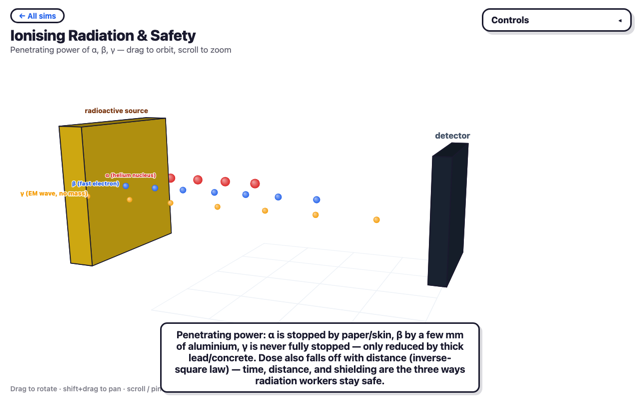
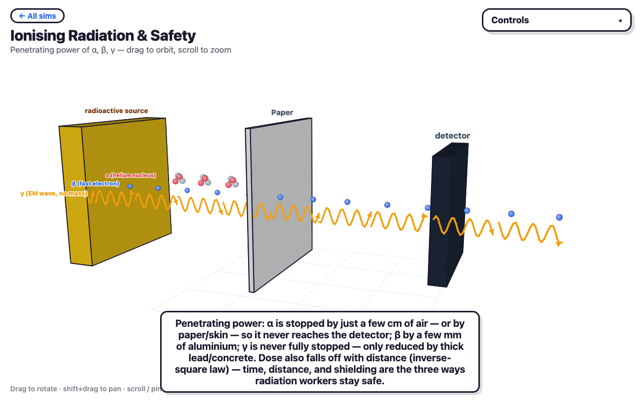
Fix proportions/physics in Rutherford model, radiation, fission-fusion sims
- Rutherford model: shrink nucleus, widen orbits so the atom reads as
  mostly empty space; Kepler-style orbit speeds (closer = faster); add
  a not-to-scale caveat.
- Ionising radiation: gamma now renders as a travelling wave packet
  instead of a ball; alpha is a proper 2p+2n cluster, visibly bigger
  than beta; alphas now stop within a short air range instead of
  reaching an unshielded detector 8m away; stopped particles fade out.
- Fission/fusion: nuclei are nucleon clusters sized by mass number
  (U-235, Ba-144, Kr-89, D, T, He-4) instead of flat balls; fixed a
  footer error claiming fusion releases more energy per reaction than
  fission (it's the reverse — fusion wins per kg of fuel, not per
  reaction); fusion neutron/He-4 recoil now momentum-balanced; fixed a
  draw-order bug where fused-away D/T could still render.

Changed region(s): [[0.125, 0.27, 0.875, 0.87]]

diff --git a/nuclear-physics/fission-fusion.html b/nuclear-physics/fission-fusion.html
@@ -13,8 +13,8 @@
 <script>
 'use strict';
 const INK = '#1a1a2e';
-const U_COL = '#a855f7', NEUTRON_COL = '#94a3b8', ENERGY_COL = '#f59e0b';
-const D_COL = '#2563eb', T_COL = '#16a34a', HE_COL = '#e63946';
+const PROTON_COL = '#e63946', NEUTRON_COL = '#94a3b8', ENERGY_COL = '#f59e0b';
+const U_COL = '#a855f7', D_COL = '#2563eb', T_COL = '#16a34a', HE_COL = '#e63946';
 
 const S = {
   mode: 'fission',
@@ -51,6 +51,71 @@ ui.hint('Drag to rotate · shift+drag to pan · scroll / pinch to zoom');
 const { canvas, ctx, W, H } = SimCanvas();
 const eng = Engine3D(canvas, { dist: 13, yaw: 0.5, pitch: 0.3 });
 
+/* --- nucleon clusters ---------------------------------------------------
+   A nucleus is drawn as a raspberry-blob of proton (red) / neutron (grey)
+   spheres. Offsets are generated once per nucleus and reused every frame so
+   the blob is stable; counts are representative, not literal (U-235 would
+   be 235 spheres). */
+const SMALL_ARRANGEMENTS = {
+  2: [[-0.6, 0, 0], [0.6, 0, 0]],
+  3: [[0, 0.66, 0], [-0.58, -0.36, 0.12], [0.58, -0.36, -0.12]],
+  4: [[0.55, 0.55, 0.55], [0.55, -0.55, -0.55], [-0.55, 0.55, -0.55], [-0.55, -0.55, 0.55]]
+};
+
+function makeCluster(n, R, nProtons) {
+  const rn = n <= 4 ? 0.24 : Math.max(0.17, R * 1.15 / Math.cbrt(n));
+  const offs = [];
+  if (n <= 4) {
+    for (const o of SMALL_ARRANGEMENTS[n]) offs.push({ p: v3.mul(o, rn * 1.05), proton: false });
+    for (let i = 0; i < nProtons; i++) offs[i].proton = true;
+    return { offs, rn, R: rn * 1.9 };
+  }
+  let tries = 0;
+  while (offs.length < n && tries < 6000) {
+    tries++;
+    const u = Math.random() * 2 - 1, a = Math.random() * Math.PI * 2;
+    const rad = (R - rn * 0.8) * Math.cbrt(Math.random());
+    const s = Math.sqrt(1 - u * u);
+    const p = [rad * s * Math.cos(a), rad * u, rad * s * Math.sin(a)];
+    if (offs.some(o => Math.hypot(p[0] - o.p[0], p[1] - o.p[1], p[2] - o.p[2]) < rn * 1.05)) continue;
+    offs.push({ p, proton: false });
+  }
+  while (offs.length < n) {
+    const u = Math.random() * 2 - 1, a = Math.random() * Math.PI * 2;
+    const rad = (R - rn * 0.8) * Math.cbrt(Math.random());
+    const s = Math.sqrt(1 - u * u);
+    offs.push({ p: [rad * s * Math.cos(a), rad * u, rad * s * Math.sin(a)], proton: false });
+  }
+  const order = offs.map((_, i) => i).sort(() => Math.random() - 0.5);
+  for (let i = 0; i < nProtons && i < order.length; i++) offs[order[i]].proton = true;
+  return { offs, rn, R };
+}
+
+function rgba(hex, a) {
+  return 'rgba(' + parseInt(hex.slice(1, 3), 16) + ',' + parseInt(hex.slice(3, 5), 16) + ',' +
+    parseInt(hex.slice(5, 7), 16) + ',' + Math.max(0, a).toFixed(2) + ')';
+}
+
+/* One composite: every nucleon shares the cluster's depth (depthOverride),
+   drawn back-to-front by each nucleon's own depth so the blob never flickers. */
+function drawCluster(c, cluster, alpha) {
+  const cd = eng.project(c).depth - cluster.R;
+  const parts = [];
+  for (const o of cluster.offs) {
+    const wp = [c[0] + o.p[0], c[1] + o.p[1], c[2] + o.p[2]];
+    parts.push({ wp, proton: o.proton, d: eng.project(wp).depth });
+  }
+  parts.sort((a, b) => b.d - a.d);
+  for (const part of parts) {
+    const col = part.proton ? PROTON_COL : NEUTRON_COL;
+    if (alpha >= 1) {
+      eng.sphere(part.wp, cluster.rn, col, { stroke: 'rgba(26,26,46,0.35)', strokeWidth: 1.2, depthOverride: cd });
+    } else {
+      eng.sphere(part.wp, cluster.rn, rgba(col, alpha), { highlight: rgba(lighten(col, 0.55), alpha), depthOverride: cd });
+    }
+  }
+}
+
 let uraniumNuclei = [], freeNeutrons = [], fragments = [], flashes = [];
 let reactionCount = 0, energyBarLevel = 0;
 
@@ -59,11 +124,11 @@ function resetScene() {
   reactionCount = 0; energyBarLevel = 0;
   if (S.mode === 'fission') {
     const positions = [[0, 0, 0], [2.6, 0.3, -1.8], [-2.4, -0.2, -2.2], [2.2, 0.1, 2.4], [-2.6, 0.2, 2.0], [0.2, -0.3, -3.4], [3.4, 0, 0.4]];
-    for (const p of positions) uraniumNuclei.push({ x: p[0], y: p[1], z: p[2], alive: true });
+    for (const p of positions) uraniumNuclei.push({ x: p[0], y: p[1], z: p[2], alive: true, cluster: makeCluster(34, 0.8, 13) });
   } else {
     fragments = [
-      { type: 'D', x: -2.2, y: 0, z: 0, vx: 0.55, vy: 0, vz: 0 },
-      { type: 'T', x: 2.2, y: 0, z: 0, vx: -0.55, vy: 0, vz: 0 }
+      { type: 'D', label: 'D', labelCol: D_COL, cluster: makeCluster(2, 0, 1), x: -2.2, y: 0, z: 0, vx: 0.55, vy: 0, vz: 0 },
+      { type: 'T', label: 'T', labelCol: T_COL, cluster: makeCluster(3, 0, 1), x: 2.2, y: 0, z: 0, vx: -0.55, vy: 0, vz: 0 }
     ];
   }
 }
@@ -82,17 +147,19 @@ function fireNeutron() {
 function splitNucleus(u) {
   u.alive = false;
   reactionCount++;
-  energyBarLevel = Math.min(1, energyBarLevel + 0.12);
+  energyBarLevel = Math.min(1, energyBarLevel + 0.25);
   flashes.push({ x: u.x, y: u.y, z: u.z, life: 0.4, maxLife: 0.4 });
-  // two fragment nuclei flying apart
+  // two daughter nuclei fly apart — the heavier Ba-144 recoils slower than Kr-89
   const a = Math.random() * Math.PI * 2;
-  fragments.push({ type: 'frag', x: u.x, y: u.y, z: u.z, vx: Math.cos(a) * 1.4, vy: 0.2, vz: Math.sin(a) * 1.4, life: 1.6, col: '#fb923c' });
-  fragments.push({ type: 'frag', x: u.x, y: u.y, z: u.z, vx: -Math.cos(a) * 1.4, vy: -0.15, vz: -Math.sin(a) * 1.4, life: 1.6, col: '#c084fc' });
+  fragments.push({ type: 'frag', label: 'Ba-144', labelCol: '#475569', cluster: makeCluster(20, 0.68, 8),
+    x: u.x, y: u.y, z: u.z, vx: Math.cos(a) * 1.0, vy: 0.15, vz: Math.sin(a) * 1.0 });
+  fragments.push({ type: 'frag', label: 'Kr-89', labelCol: '#475569', cluster: makeCluster(14, 0.58, 6),
+    x: u.x, y: u.y, z: u.z, vx: -Math.cos(a) * 1.6, vy: -0.15, vz: -Math.sin(a) * 1.6 });
   // 2-3 new free neutrons
   const nOut = 2 + Math.floor(Math.random() * 2);
   for (let i = 0; i < nOut; i++) {
     const na = Math.random() * Math.PI * 2, nz = (Math.random() - 0.5) * 2;
-    freeNeutrons.push({ x: u.x, y: u.y, z: u.z, vx: Math.cos(na) * 2.2, vy: nz * 0.6, vz: Math.sin(na) * 2.2, spawnT: simT });
+    freeNeutrons.push({ x: u.x, y: u.y, z: u.z, vx: Math.cos(na) * 2.2, vy: nz * 0.6, vz: Math.sin(na) * 2.2 });
   }
 }
 
@@ -121,7 +188,8 @@ function frame(tms) {
   if (S.mode === 'fission') {
     for (const u of uraniumNuclei) {
       if (!u.alive) continue;
-      eng.sphere([u.x, u.y, u.z], 0.55, U_COL, { stroke: INK, strokeWidth: 2, label: S.labels ? 'U' : '' });
+      drawCluster([u.x, u.y, u.z], u.cluster, 1);
+      if (S.labels) eng.label([u.x, u.y + 1.15, u.z], 'U-235', { color: U_COL, size: 14, lift: 2 });
     }
     for (let i = freeNeutrons.length - 1; i >= 0; i--) {
       const nn = freeNeutrons[i];
@@ -129,25 +197,28 @@ function frame(tms) {
       let hit = null;
       for (const u of uraniumNuclei) {
         if (!u.alive) continue;
-        if (Math.hypot(nn.x - u.x, nn.y - u.y, nn.z - u.z) < 0.65) { hit = u; break; }
+        if (Math.hypot(nn.x - u.x, nn.y - u.y, nn.z - u.z) < 0.9) { hit = u; break; }
       }
       if (hit && (S.chainReaction || nn.targetHint)) { splitNucleus(hit); freeNeutrons.splice(i, 1); continue; }
-      eng.sphere([nn.x, nn.y, nn.z], 0.13, NEUTRON_COL);
+      eng.sphere([nn.x, nn.y, nn.z], 0.22, NEUTRON_COL, { stroke: 'rgba(26,26,46,0.35)', strokeWidth: 1.2 });
       if (Math.abs(nn.x) > 8 || Math.abs(nn.y) > 6 || Math.abs(nn.z) > 6) freeNeutrons.splice(i, 1);
     }
     for (let i = fragments.length - 1; i >= 0; i--) {
       const f = fragments[i];
-      f.x += f.vx * dt; f.y += f.vy * dt; f.z += f.vz * dt; f.life -= dt;
-      eng.sphere([f.x, f.y, f.z], 0.4, f.col);
-      if (f.life <= 0) fragments.splice(i, 1);
+      f.x += f.vx * dt; f.y += f.vy * dt; f.z += f.vz * dt;
+      const rr = Math.hypot(f.x, f.y, f.z);
+      const alpha = Math.min(1, (7.2 - rr) / 1.6);
+      if (alpha <= 0) { fragments.splice(i, 1); continue; }
+      drawCluster([f.x, f.y, f.z], f.cluster, alpha);
+      if (S.labels && alpha > 0.5) eng.label([f.x, f.y + f.cluster.R + 0.4, f.z], f.label, { color: f.labelCol, size: 13, lift: 2 });
     }
     for (let i = flashes.length - 1; i >= 0; i--) {
       const fl = flashes[i]; fl.life -= dt;
       const a = Math.max(0, fl.life / fl.maxLife);
-      eng.sphere([fl.x, fl.y, fl.z], 0.6 + (1 - a) * 1.2, 'rgba(250,204,21,' + (a * 0.5).toFixed(2) + ')', { highlight: 'rgba(254,240,138,0.6)' });
+      eng.sphere([fl.x, fl.y, fl.z], 0.8 + (1 - a) * 1.2, 'rgba(250,204,21,' + (a * 0.5).toFixed(2) + ')', { highlight: 'rgba(254,240,138,0.6)' });
       if (fl.life <= 0) flashes.splice(i, 1);
     }
-    if (S.labels && uraniumNuclei.some(u => u.alive)) eng.label([0, -3.1, 0], 'U-235 nuclei (a slice of the fuel)', { color: '#475569', size: 14, lift: 2 });
+    if (S.labels && uraniumNuclei.some(u => u.alive)) eng.label([0, -3.1, 0], 'U-235 nuclei (a slice of the fuel) — protons red, neutrons grey', { color: '#475569', size: 14, lift: 2 });
   } else {
     const d = fragments.find(f => f.type === 'D'), tt = fragments.find(f => f.type === 'T');
     if (d && tt) {
@@ -156,26 +227,24 @@ function frame(tms) {
       if (dist < 0.9 && Math.abs(d.vx) > 0.1) {
         // fuse!
         reactionCount++;
-        energyBarLevel = Math.min(1, energyBarLevel + 0.35);
+        energyBarLevel = Math.min(1, energyBarLevel + 0.08);
         flashes.push({ x: (d.x + tt.x) / 2, y: 0, z: 0, life: 0.5, maxLife: 0.5 });
         fragments = fragments.filter(f => f.type !== 'D' && f.type !== 'T');
-        fragments.push({ type: 'He', x: 0, y: 0, z: 0, vx: 0.3, vy: 0.1, vz: 0, life: 3, col: HE_COL });
-        freeNeutrons.push({ x: 0, y: -0.1, z: 0, vx: -2.5, vy: 0, vz: 0.4 });
-        setTimeout(resetScene, 1400);
+        // the fast neutron carries ~80% of the energy; He-4 recoils the other way
+        fragments.push({ type: 'He', label: 'He-4', labelCol: HE_COL, cluster: makeCluster(4, 0, 2), x: 0, y: 0, z: 0, vx: 0.9, vy: 0, vz: 0 });
+        freeNeutrons.push({ x: 0, y: -0.1, z: 0, vx: -3.5, vy: 0, vz: 0.4 });
+        setTimeout(resetScene, 1600);
       }
-      if (d) eng.sphere([d.x, d.y, d.z], 0.4, D_COL, { stroke: INK, strokeWidth: 1.5, label: S.labels ? 'D' : '' });
-      if (tt) eng.sphere([tt.x, tt.y, tt.z], 0.4, T_COL, { stroke: INK, strokeWidth: 1.5, label: S.labels ? 'T' : '' });
     }
     for (const f of fragments) {
-      if (f.type === 'He') {
-        f.x += f.vx * dt; f.y += f.vy * dt;
-        eng.sphere([f.x, f.y, f.z], 0.42, f.col, { stroke: INK, strokeWidth: 1.5, label: S.labels ? 'He' : '' });
-      }
+      if (f.type === 'He') { f.x += f.vx * dt; f.y += f.vy * dt; }
+      drawCluster([f.x, f.y, f.z], f.cluster, 1);
+      if (S.labels) eng.label([f.x, f.y + 0.85, f.z], f.label, { color: f.labelCol, size: 15, lift: 2 });
     }
     for (let i = freeNeutrons.length - 1; i >= 0; i--) {
       const nn = freeNeutrons[i];
       nn.x += nn.vx * dt; nn.z += nn.vz * dt;
-      eng.sphere([nn.x, nn.y, nn.z], 0.16, NEUTRON_COL);
+      eng.sphere([nn.x, nn.y, nn.z], 0.22, NEUTRON_COL, { stroke: 'rgba(26,26,46,0.35)', strokeWidth: 1.2 });
       if (Math.abs(nn.x) > 8) freeNeutrons.splice(i, 1);
     }
     for (let i = flashes.length - 1; i >= 0; i--) {
@@ -184,7 +253,7 @@ function frame(tms) {
       eng.sphere([fl.x, fl.y, fl.z], 0.5 + (1 - a) * 1.6, 'rgba(250,204,21,' + (a * 0.55).toFixed(2) + ')', { highlight: 'rgba(254,240,138,0.6)' });
       if (fl.life <= 0) flashes.splice(i, 1);
     }
-    if (S.labels) eng.label([0, -1.4, 0], 'push the D and T together — real fusion needs extreme heat & pressure to beat their repulsion', { color: '#475569', size: 14, lift: 2 });
+    if (S.labels) eng.label([0, -1.6, 0], 'push the D and T together — real fusion needs extreme heat & pressure to beat their repulsion', { color: '#475569', size: 14, lift: 2 });
   }
 
   energyBarLevel = Math.max(0, energyBarLevel - dt * 0.06);
@@ -196,11 +265,11 @@ function frame(tms) {
   roNeutrons.set(String(freeNeutrons.length));
 
   if (S.mode === 'fission') {
-    foot.set('<b>Fission:</b> a neutron splits a heavy U-235 nucleus into two smaller nuclei + 2&ndash;3 free neutrons + energy. ' +
+    foot.set('<b>Fission:</b> a neutron splits a heavy U-235 nucleus into two smaller nuclei (e.g. Ba-144 + Kr-89) + 2&ndash;3 free neutrons + energy (&asymp;200 MeV). ' +
       (S.chainReaction ? 'Those neutrons can split <b>more</b> nuclei &mdash; a chain reaction.' : 'Chain reaction off: extra neutrons just fly past.'));
   } else {
-    foot.set('<b>Fusion:</b> deuterium (D) + tritium (T) &rarr; helium + a neutron + <b>far more energy per reaction than fission</b> &mdash; ' +
-      'this is what powers the Sun, and what fusion reactors are trying to harness on Earth.');
+    foot.set('<b>Fusion:</b> deuterium (D) + tritium (T) &rarr; helium-4 + a fast neutron (which carries ~80% of the energy). ' +
+      'One fission releases more energy than one fusion (&asymp;200 MeV vs &asymp;18 MeV), but <b>per kilogram of fuel, fusion releases several times more</b> &mdash; it powers the Sun, and fusion reactors are trying to harness it on Earth.');
   }
 
   requestAnimationFrame(frame);

diff --git a/nuclear-physics/radiation-safety.html b/nuclear-physics/radiation-safety.html
@@ -70,6 +70,41 @@ let simT = 0, lastT = 0;
 
 function detectorX() { return SHIELD_X + 1.2 + S.distance; }
 
+/* alpha drawn as its actual structure: a helium nucleus, 2 protons + 2 neutrons */
+const PROTON_COL = '#e63946';
+const ALPHA_NUCLEONS = [
+  { off: [0.075, 0.075, 0.075], col: PROTON_COL },
+  { off: [0.075, -0.075, -0.075], col: '#94a3b8' },
+  { off: [-0.075, 0.075, -0.075], col: '#94a3b8' },
+  { off: [-0.075, -0.075, 0.075], col: PROTON_COL }
+];
+
+function drawAlpha(x, z, fade) {
+  const c = [x, 0, z];
+  const cd = eng.project(c).depth;
+  const parts = ALPHA_NUCLEONS.map(n => {
+    const pos = [c[0] + n.off[0] * fade, c[1] + n.off[1] * fade, c[2] + n.off[2] * fade];
+    return { pos, col: n.col, d: eng.project(pos).depth };
+  });
+  parts.sort((a, b) => b.d - a.d); // far → near, whole cluster sorts as one unit via depthOverride
+  for (const n of parts) {
+    eng.sphere(n.pos, 0.09 * fade, n.col, { depthOverride: cd, stroke: 'rgba(26,26,46,0.35)', strokeWidth: 1 });
+  }
+}
+
+function drawGamma(x, z, fade) {
+  const L = 1.2, N = 26, cycles = 3.5;
+  const pts = [];
+  for (let i = 0; i <= N; i++) {
+    const u = i / N;
+    const px = x - L + u * L;
+    if (px < SOURCE_X) continue; // tail still inside the source box
+    pts.push([px, 0.18 * fade * Math.sin(u * Math.PI * 2 * cycles + x * 6), z]);
+  }
+  if (pts.length < 2) return;
+  eng.line(pts, { color: GAMMA_COL, width: 3 * Math.max(fade, 0.35), arrow: true });
+}
+
 function frame(tms) {
   const t = tms / 1000, dt = Math.min(t - lastT, 0.04); lastT = t; simT += dt;
 
@@ -79,7 +114,13 @@ function frame(tms) {
     if (!show) continue;
     spawnTimers[lane.key] -= dt;
     if (spawnTimers[lane.key] <= 0) {
-      particles.push({ key: lane.key, x: SOURCE_X, z: lane.z, speed: lane.key === 'gamma' ? 6 : (lane.key === 'beta' ? 4.5 : 2.6), stopped: false, stopX: null });
+      particles.push({
+        key: lane.key, x: SOURCE_X, z: lane.z,
+        speed: lane.key === 'gamma' ? 6 : (lane.key === 'beta' ? 4.5 : 2.6),
+        stopped: false, fade: 1, checkedShield: false,
+        // alpha only travels a few cm in air — it peters out just past the shield plane
+        airStop: lane.key === 'alpha' ? SHIELD_X + 1 + Math.random() * 0.5 : Infinity
+      });
       spawnTimers[lane.key] = lane.key === 'alpha' ? 0.35 : 0.2;
     }
   }
@@ -88,13 +129,17 @@ function frame(tms) {
     const p = particles[i];
     if (!p.stopped) {
       p.x += p.speed * dt;
-      if (p.x >= SHIELD_X && p.stopX === null) {
+      if (p.x >= SHIELD_X && !p.checkedShield) {
+        p.checkedShield = true;
         const passes = S.shield === 'none' ? true : Math.random() < pen[p.key];
-        if (!passes) { p.stopped = true; p.stopX = SHIELD_X + (Math.random() - 0.5) * 0.3; }
+        if (!passes) { p.stopped = true; p.x = SHIELD_X + (Math.random() - 0.5) * 0.2; }
       }
+      if (!p.stopped && p.x >= p.airStop) p.stopped = true;
+    } else {
+      p.fade -= dt; // stopped particles fade out quickly instead of piling up
+      if (p.fade <= 0) { particles.splice(i, 1); continue; }
     }
     if (!p.stopped && p.x > dX + 3) particles.splice(i, 1);
-    if (p.stopped && Math.random() < 0.002) particles.splice(i, 1); // slow cleanup of stopped dots
   }
   if (particles.length > 400) particles.splice(0, particles.length - 400);
 
@@ -128,23 +173,27 @@ function frame(tms) {
 
   for (const p of particles) {
     const lane = LANES.find(l => l.key === p.key);
-    const r = p.key === 'alpha' ? 0.14 : (p.key === 'beta' ? 0.09 : 0.07);
-    eng.sphere([p.x, 0, lane.z], r, lane.col, p.stopped ? { highlight: lane.col } : {});
+    const fade = p.stopped ? p.fade : 1;
+    if (p.key === 'alpha') drawAlpha(p.x, lane.z, fade);
+    else if (p.key === 'gamma') drawGamma(p.x, lane.z, fade);
+    else eng.sphere([p.x, 0, lane.z], 0.07 * fade, lane.col, { stroke: 'rgba(26,26,46,0.3)', strokeWidth: 1 });
   }
 
   eng.flush(ctx);
 
-  // relative dose at detector: inverse-square with distance, times whichever types get through
+  // relative dose at detector: inverse-square with distance, times whichever types get through.
+  // Alpha never contributes — its range in air is only a few cm, far short of the detector.
   let doseSum = 0;
-  for (const key of ['alpha', 'beta', 'gamma']) {
-    const show = { alpha: S.showAlpha, beta: S.showBeta, gamma: S.showGamma }[key];
+  for (const key of ['beta', 'gamma']) {
+    const show = { beta: S.showBeta, gamma: S.showGamma }[key];
     if (!show) continue;
     doseSum += pen[key] / (S.distance * S.distance);
   }
   roDose.set(doseSum.toFixed(2) + ' (arbitrary units)');
 
-  foot.set('<b>Penetrating power:</b> α is stopped by paper/skin, β by a few mm of aluminium, γ is never fully stopped &mdash; only reduced by thick lead/concrete. ' +
-    'Dose also falls off with distance (inverse-square law) &mdash; <b>time, distance, and shielding</b> are the three ways radiation workers stay safe.');
+  foot.set('<b>Penetrating power:</b> α is stopped by just a few cm of air &mdash; or by paper/skin &mdash; so it never reaches the detector; β by a few mm of aluminium; ' +
+    'γ is never fully stopped &mdash; only reduced by thick lead/concrete. Dose also falls off with distance (inverse-square law) &mdash; ' +
+    '<b>time, distance, and shielding</b> are the three ways radiation workers stay safe.');
 
   requestAnimationFrame(frame);
 }

diff --git a/atomic-structure/rutherford-model.html b/atomic-structure/rutherford-model.html
@@ -35,20 +35,21 @@ const foot = ui.footer('');
 ui.hint('Drag to rotate · shift+drag to pan · scroll / pinch to zoom');
 
 const { canvas, ctx, W, H } = SimCanvas();
-const eng = Engine3D(canvas, { dist: 11, yaw: 0.5, pitch: 0.4 });
+const eng = Engine3D(canvas, { dist: 13, yaw: 0.5, pitch: 0.4 });
 
 let orbits = [];
 function rebuildOrbits() {
   orbits = [];
   for (let i = 0; i < S.n; i++) {
     orbits.push({
-      r: 1.5 + Math.random() * 1.8,          // continuous, arbitrary radius — no fixed shells
+      r: 2.0 + Math.random() * 2.2,          // continuous, arbitrary radius — no fixed shells
       incl: (Math.random() - 0.5) * Math.PI * 0.8,
       yaw0: Math.random() * Math.PI * 2,
       phase: Math.random() * Math.PI * 2,
-      speed: 0.35 + Math.random() * 0.5,
       ecc: Math.random() * 0.25              // slight ellipticity, like a real orbit
     });
+    // Kepler-style: closer orbits are faster, speed ∝ r^-3/2
+    orbits[i].speed = 3.3 * Math.pow(orbits[i].r, -1.5);
   }
 }
 rebuildOrbits();
@@ -76,8 +77,9 @@ function frame(tms) {
   ctx.clearRect(0, 0, W(), H());
   eng.begin(W(), H());
 
-  eng.sphere([0, 0, 0], 0.5, NUCLEUS_COL, { stroke: INK, strokeWidth: 2, label: S.labels ? '+' : '' });
-  if (S.labels) eng.label([0, -0.9, 0], 'nucleus', { color: '#475569', size: 15, lift: 2 });
+  eng.sphere([0, 0, 0], 0.28, NUCLEUS_COL, { stroke: INK, strokeWidth: 2, label: S.labels ? '+' : '' });
+  if (S.labels) eng.label([0, -0.7, 0], 'nucleus', { color: '#475569', size: 15, lift: 2 });
+  if (S.labels) eng.label([0, -1.15, 0], 'not to scale — really ~10,000× smaller than the orbits', { color: '#94a3b8', size: 13, lift: 2 });
 
   for (const o of orbits) {
     if (S.showOrbits) eng.line(orbitPts(o), { color: 'rgba(148,163,184,0.55)', width: 2, dash: [6, 6] });